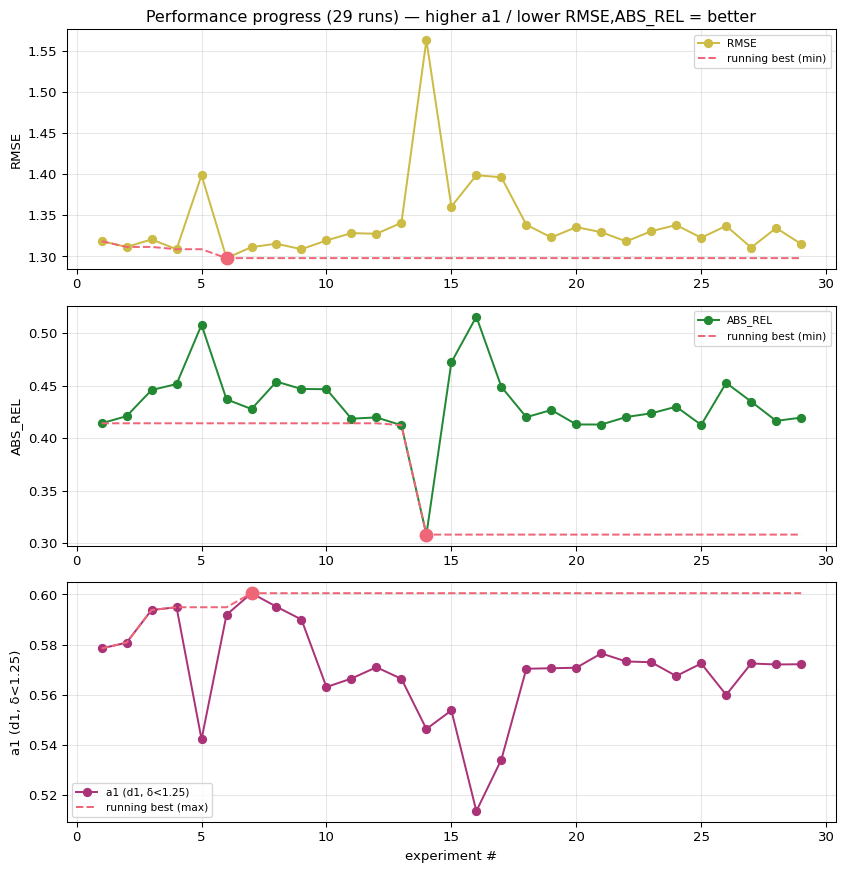
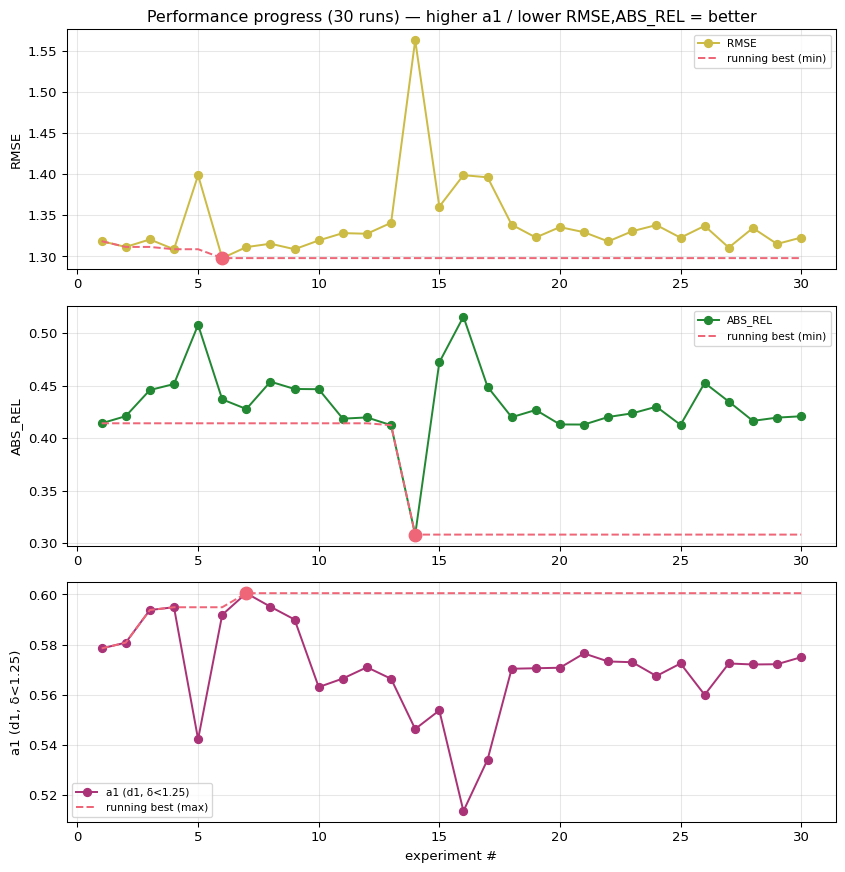
E34: log_mae confirms the median-pull diagnosis but nets zero on d1 -- centre vs tail cancel
Running the loss in log space, on the champion, judged on the near-field interior (all three
corrections from I25's failure), the mechanism came through exactly as diagnosed -- and then the
metric refused to move.

The 1-2m interior ratio histogram shifted precisely as I25 predicted:
    pred/gt      E23 mae   E34 log_mae   batvision
    0.9-1.0        32.1%       29.1%        22.1%     (under-pull pile, shrinks)
    1.0-1.11       29.2%       32.1%        40.4%     (centre, grows +2.9% toward batvision)
So median-pull is REAL and log-space loss is its correct lever: |log D - log gt| moves the optimum
from the arithmetic toward the geometric median, exactly the axis the diagnosis named.

But 1-2m interior d1 fell -0.0034, because the same loss thickened the OVER-prediction tail
(>1.25: 15.0% -> 16.2%). log_mae charges equal RATIO errors equally, so relative to MAE it relaxes
the penalty on large LINEAR errors -- the over-predictions -- while it tightens the centre. On a
+-25% ratio threshold the centred bulk and the loosened tail cancel.

So the honest verdict is half-confirmation: the diagnosis (near-field median-pull) is right, the
lever (log-space loss) is right, but a PLAIN log_mae is the wrong shape -- it needs to centre the
bulk WITHOUT loosening the tail. That is a Huber-log loss (quadratic near ratio 1, linear beyond),
untested. I27 inconclusive; I25/I26 dropped; E32 (log output) and E33 (combine) both refuted.
[…]

diff --git a/README.md b/README.md
@@ -7,13 +7,13 @@ Autonomous research — binaural echoes → ERP planar (cubemap) depth (SoundSpa
 
 | | |
 |---|---|
-| **Mode** | `EXPLOIT` — adaptive HPO ladder 3 -> 5 -> 7 -> 10, each step justified by evidence -> PASS / FAIL |
-| **Active study** | `H0` [new] depth-objective (*running*) |
+| **Mode** | `SYNTHESIZE` — no runs; review evidence, find contradictions, pick the highest-information next question |
+| **Active study** | `H0` [new] depth-objective (*concluded*) |
 | **Research question** | The champion's residual gap is near-field median-pull compression (I24): masked-MAE on linear depth converges to the arithmetic median, below the geometric median that d1's ratio threshold rewards, so |
 | **Current action** | E32 --depth-out log; E33 --depth-out log --depth-volume True. Champion arch, control E23 (1.8962). |
-| **Latest result** | *(no scored run in this study yet)* |
+| **Latest result** | `E34` : composite **None** (rmse None, d1 None, abs_rel None), best epoch None/None |
 | **Next decision** | Judge on 1-2m INTERIOR d1 (the diagnosed locus) FIRST, then overall d1. ABS_REL is not evidence. Distinct from I13: that re-weighted the loss on a range mis-diagnosis; this re-parameterises the output |
-| **Why this mode** | I24 diagnosed the champion's deficit as near-field median-pull, a metric-shaped effect. log-depth output re-parameterises the model so its optimum is the geometric median (ratio 1), matching d1. This  |
+| **Why this mode** | Three objective-line runs (E32/E33/E34) converge: median-pull is real and log-space is its axis, but plain log_mae trades centre for tail and nets zero on d1. Before a Huber-log refinement, a synthesi |
 
 ### Current hypothesis
 
@@ -33,7 +33,7 @@ Autonomous research — binaural echoes → ERP planar (cubemap) depth (SoundSpa
 | `I14` | ray conditioning / audio token routing | mid | far-field rays cannot see the late, weak echo that carries distance | probing | E16 (control) then E15b (treatment), both at lr 6e-4. Pre-registered falsification unchang |
 | `I19` | ray conditioning / physically-structured decoding | far | the model must LEARN that echo delay encodes depth, and it fails to, collapsing far surfaces toward the median | inconclusive | Do NOT crown. Test the ONE compatible combination the scope predicts: EchoDelayVolume + fi |
 | `I24` | reframing / where-the-gain-is | n/a (redirection) | the 1-2 m near field, which is 52.5% of pixels and over half the total d1 gap to batvision | candidate | A near-field compression cure that is NOT time-resolution: candidates are (a) a small per- |
-| `I27` | depth objective | mid | near-field median-pull: the loss must optimise the geometric median, which requires the LOSS in log space, not the output | backlog | run --main-loss log_mae on the champion; control E23. |
+| `I27` | depth objective | mid | near-field median-pull: the loss must optimise the geometric median, which requires the LOSS in log space, not the output | inconclusive | Either a Huber-log loss (centre without loosening the tail), or accept that the near-field |
 
 ### Open discrepancies
 
@@ -50,6 +50,7 @@ Autonomous research — binaural echoes → ERP planar (cubemap) depth (SoundSpa
 
 | When | Mode | Event | Note |
 |---|---|---|---|
+| 2026-07-12T04:46 | `synthesize` | experiment_completed | log_mae LOSS on champion: HALF-confirmed. The 1-2m ratio histogram moved exactly as predicted (0.9-1.0 pile 32.1->29.1%, centre 1. |
 | 2026-07-12T03:44 | `exploit` | candidate_dropped | FAILED pre-registered near-field test: 1-2m interior d1 unmoved (0.7523->0.7521), ratio histogram unchanged. Re-parameterising the |
 | 2026-07-12T02:53 | `exploit` | experiment_completed | log-depth output: composite 1.9102 vs E23 1.8962 (+0.0140 worse), overall d1 -0.0044, converged. NOT the test -- the pre-registere |
 | 2026-07-12T01:42 | `exploit` | idea_added | log-depth output cures near-field median-pull. d1 is a +-25% ratio threshold; masked-MAE on linear depth converges to the arithmet |
@@ -57,7 +58,6 @@ Autonomous research — binaural echoes → ERP planar (cubemap) depth (SoundSpa
 | 2026-07-12T01:27 | `synthesize` | direction_changed | Representation lever OPENED per request and REFUTED at zero GPU: coherence correlates +0.17 (wrong sign) and late-tail waveform en |
 | 2026-07-11T21:36 | `synthesize` | experiment_completed | DECISIVE FAIL. Bypassing encoder time pooling (raw STFT, 512 time cols, freq matched to e3) still regressed the far deciles ~0.04  |
 | 2026-07-11T20:31 | `exploit` | experiment_completed | First attempt OOMed (raw logits 9GB at batch64; CPU smoke at batch2 hid it -- lesson: smoke at the real batch). Fixed with freq_st |
-| 2026-07-11T20:29 | `exploit` | idea_added | D13's decider. EchoDelayVolume reading the STFT spec DIRECTLY (512 time columns, 2cm spacing, encoder pooling bypassed). If the fa |
 
 *Updated by `python utils/report.py research`. Champion: none yet.*
 <!-- RESEARCH:END -->
@@ -120,6 +120,7 @@ running best highlighted):
 | 27 | `b066475` | 0.4350 | 1.3108 | 0.5725 | 1.9008 | keep | E31 EchoDelayVolume reads raw STFT (time 512, encoder time-pooling bypassed) (G2/I22) |
 | 28 | `54678e3` | 0.4166 | 1.3346 | 0.5721 | 1.9102 | keep | E32 log-depth output (I25: cure near-field median-pull) |
 | 29 | `54678e3` | 0.4197 | 1.3152 | 0.5722 | 1.8989 | keep | E33 log-depth output + EchoDelayVolume (I26 combine) |
+| 30 | `61ef585` | 0.4210 | 1.3230 | 0.5750 | 1.8981 | keep | E34 log_mae LOSS on champion (I27: geometric-median objective for near-field) |
 <!-- RESULTS:END -->
 
 ## Progression (composite, lower = better)